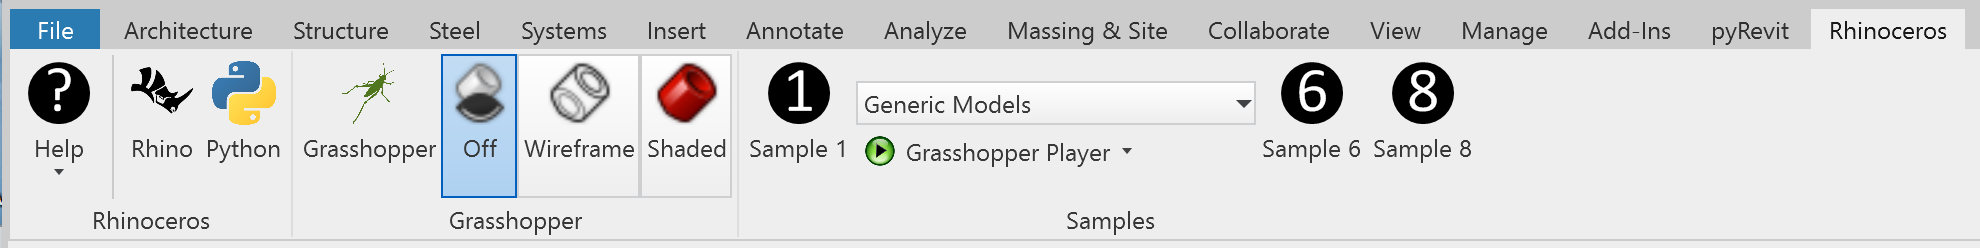
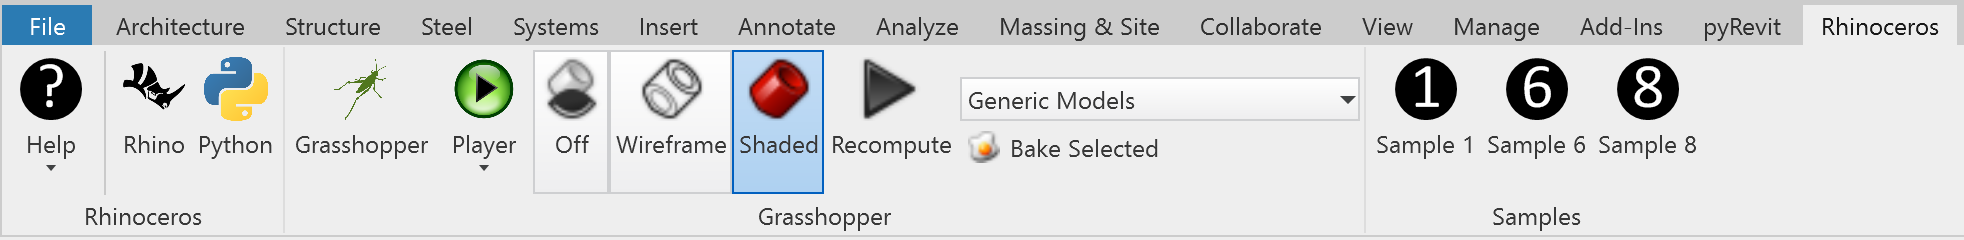
Finished the documentation for the 8-2-2019 build.

diff --git a/doc/gh-components.md b/doc/gh-components.md
@@ -15,10 +15,15 @@ This guide documents the Grasshopper components that support Revit interaction.
     <th width="200">Name</th>
     <th>Description</th>
   </tr>
-  <tr>
+  <tr>    
+      <td width="48px"><img src="GH/AddAdaptiveComponent.png" alt="AddAdaptiveComponent" width="32"></td>    
+      <td>Add Adaptive Component by Points</td>    
+      <td>Adds an adaptive component instance using a list of points to Revit.  The points must be sorted in the same order as the adaptive component expects.</td>  
+    </tr>
+    <tr>
     <td width="48px"><img src="GH/BeamByCurve.png" alt="AddBeamByCurve" width="32"></td>
     <td>Add Beam By Curve</td>
-    <td>Create a Revit Beam Object using a 2d or 3d curve for an axis</td>
+    <td>Create a Revit Beam Object using a 2d or 3d curve for an axis/  Also assign a level.</td>
   </tr>
   <tr>
     <td><img src="GH/ColumnByCurve.png" alt="AddColumnByCurve" width="32"></td>
@@ -43,12 +48,12 @@ This guide documents the Grasshopper components that support Revit interaction.
   <tr>
     <td><img src="GH/WallByCurve.png" alt="ColumnByCurve" width="32"></td>
     <td>Wall By Curve</td>
-    <td>Create a Revit Wall Object using a plan curve</td>
+    <td>Create a Revit Wall Object using a plan curve. The Level, Type, Height and other properties can be specified. See the component help for options.</td>
   </tr>
   <tr>
     <td><img src="GH/DirectShapeByGeometry.png" alt="AddDirectShapeByGeometry" width="32"></td>
     <td>Add DirectShape Geometry</td>
-    <td>Create a Directshape Element using a plan curve. This is the most generic way to import Geometry.</td>
+    <td>Create a Directshape Element from a Rhino Geometry. This is the most flexible way to import Geometry.</td>
   </tr>
   <tr>
     <td><img src="GH/DirectShapeCategories.png" alt="DirectShapeCategories" width="32"></td>
@@ -81,6 +86,26 @@ This guide documents the Grasshopper components that support Revit interaction.
     <td><img src="GH/CategoryTypes.png" alt="ColumnByCurve" width="32"></td>
     <td>Category Types</td>
     <td>A pick list of category types in Revit.</td>
+  </tr>
+</table>
+
+#### Datum Components
+
+<table style="width:100%">
+  <tr>
+    <th width="48px">Icon</th>
+    <th width="200">Name</th>
+    <th>Description</th>
+  </tr>
+  <tr>
+    <td width="48px"><img src="GH/AddGridByLine.png" alt="AddGridByLine" width="32"></td>
+    <td>Add Grid by Line</td>
+    <td>Add a Revit Grid line through a Rhino curve.</td>
+  </tr>
+  <tr>
+    <td><img src="GH/AddLevelByElevation.png" alt="AddLevelByElevation" width="32"></td>
+    <td>Add Level by Elevation</td>
+    <td>Add level by supplying an elevation height.</td>
   </tr>
 </table>
 
@@ -122,7 +147,6 @@ This guide documents the Grasshopper components that support Revit interaction.
 
 #### Elements Components
 
-
 <table style="width:100%">
   <tr>
     <th width="48px">Icon</th>
@@ -132,7 +156,7 @@ This guide documents the Grasshopper components that support Revit interaction.
   <tr>
     <td width="48px"><img src="GH/ElementDecompose.png" alt="BeamByCurve" width="32"></td>
     <td>Element Decompose</td>
-    <td>Decompose an Element into it's associated data including Constraints, Dimensions, Identity Data, Category, Family, Type, ID, etc...</td>
+    <td>Decompose an Element into it's associated data including Constraints, Dimensions, Identity Data, Category, Family, Type, ID, etc... Once the Elemnt is wired into this component, <code>Shift</code> double-click on the component to exapand to all Parameters of that component.  <code>Ctrl</code> double-click on the component then to collapse down to only used outputs.</td>
   </tr>
   <tr>
     <td><img src="GH/ElementGeometry.png" alt="BeamByCurve" width="32"></td>
@@ -173,6 +197,11 @@ This guide documents the Grasshopper components that support Revit interaction.
     <td><img src="GH/ElementType.png" alt="ColumnByCurve" width="32"></td>
     <td>Element Type</td>
     <td>Get Element type from the Element(s) input</td>
+  </tr>
+  <tr>
+    <td><img src="GH/ElementDelete.png" alt="DeleteElement" width="32"></td>
+    <td>Element Delete</td>
+    <td>Deletes the specified element out of Revit.</td>
   </tr>
 </table>
 
@@ -224,7 +253,6 @@ This guide documents the Grasshopper components that support Revit interaction.
 
 #### Revit Input Components
 
-
 <table style="width:100%">
   <tr>
     <th width="48px">Icon</th>
@@ -253,8 +281,8 @@ This guide documents the Grasshopper components that support Revit interaction.
   </tr>
   <tr>
     <td><img src="GH/ElementTypeByName.png" alt="ColumnByCurve" width="32"></td>
-    <td>Select an Element Type</td>
-    <td>Use a checklist, dropdown, scroll sequence or cycle interface to select a Element Type from Revit</td>
+    <td>Select an Element Type by Name</td>
+    <td>Select a specific Element type by its name. This component will be blank unless connected in combination with the Select Document Category or the Select a Family component to select a specific element within a Family or Category. Use a checklist, dropdown, scroll sequence or cycle interface to select a Element Type from Revit <img src="images/element-select-alpha.png" alt="ColumnByCurve"></td>
   </tr>
 </table>
 

diff --git a/doc/getting-started-with-rhino.md b/doc/getting-started-with-rhino.md
@@ -35,6 +35,10 @@ Once Rhino.inside is successfully loaded, a Rhinoceros toolbar will appear in Re
       <td><img src="images/Grasshopper.png" alt="Grasshopper Icon" width="48"></td>
       <td>Open the Grasshopper Canvas in Revit.</td>    
   </tr>
+    <tr>          
+      <td><img src="images/GrasshopperPlayer.png" alt="Grasshopper Player" width="48"></td>
+      <td>The Grasshopper Player will run any existing Grasshopper definition and immediately return to Revit.</td>
+    </tr>
   <tr>          
       <td><img src="images/Preview_Off_24x24.png" alt="Preview Off Icon" width="48"></td>
       <td>Turns off the real-time preview by Grasshopepr in Revit.</td>    
@@ -42,19 +46,31 @@ Once Rhino.inside is successfully loaded, a Rhinoceros toolbar will appear in Re
     <tr>          
       <td><img src="images/Preview_Wireframe_24x24.png" alt="Preview Wireframe Icon" width="48"></td>
       <td>Grasshopper will use a wireframe display for real-time preview of geometry in Revit.</td>    
-  </tr>
+    </tr>
     <tr>          
       <td><img src="images/Preview_Shaded_24x24.png" alt="Preview Shaded Icon" width="48"></td>
       <td>Grasshopper will use a shaded display mode for real-time preview of geometry in Revit.</td>
+    </tr>
+    <tr>          
+      <td><img src="images/Recompute_24x24.png" alt="Grasshopper Recompute" width="48"></td>
+      <td>Forces a recompute to the loaded Grasshopper definitions.</td>
+  </tr>
+    <tr>          
+      <td><img src="images/Bake_24x24.png" alt="Grasshopper Recompute" width="48"></td>
+      <td>Bakes the currently selected Rhino Geometry into the currently selected Category in Revit.</td>
   </tr>
     <tr>          
       <td><img src="images/Sample1.png" alt="Sample 1 Icon" width="48"></td>
       <td>Sample 1 will simply draw a Rhino sphere in Revit as a example for developers.</td>
-  </tr>
+    </tr>
     <tr>          
-      <td><img src="images/GrasshopperPlayer.png" alt="Grasshopper Player" width="48"></td>
-      <td>The Grasshopper Player will run any existing Grasshopper definition and immediately return to Revit.</td>
-  </tr>
+      <td><img src="images/Sample6.png" alt="Sample 6 Icon" width="48"></td>
+      <td>Sample 6 will toggle the visibility of Rhino geometry in Revit.</td>
+    </tr>
+    <tr>          
+      <td><img src="images/Sample8.png" alt="Sample 8 Icon" width="48"></td>
+      <td>Sample 8 will allow Revit to open Rhino .3DM files directly.</td>
+    </tr>
 </table>
 
 ## <img src="images/Rhino.png" width="35px"> Running Rhino in Revit
